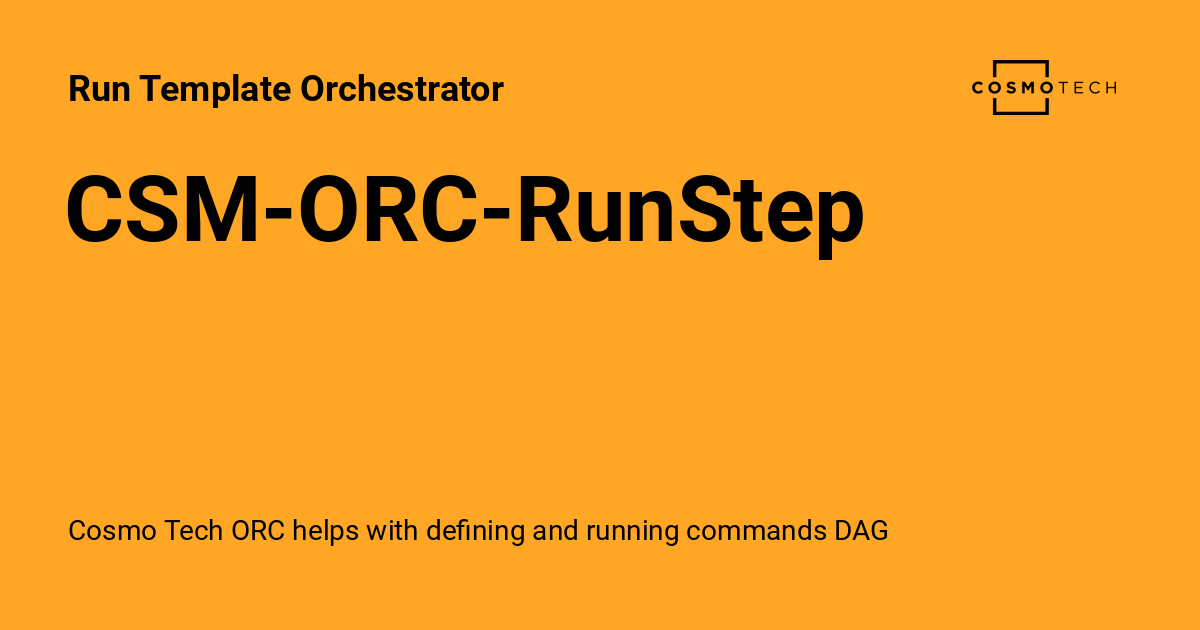
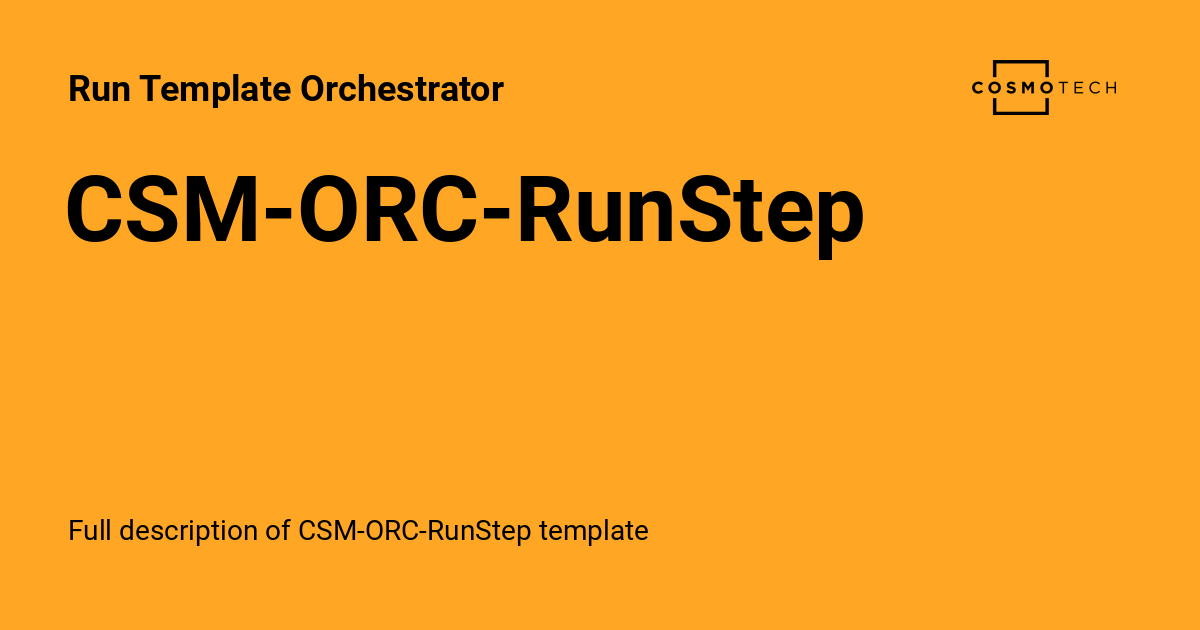
Deployed 0cb3af8 to 1.2.0-dev with MkDocs 1.5.3 and mike 2.0.0

Changed region(s): [[0.0617, 0.8143, 0.74, 0.8746]]

diff --git a/1.2.0-dev/command_templates/csm-orc/CSM-ORC-RunStep/index.html b/1.2.0-dev/command_templates/csm-orc/CSM-ORC-RunStep/index.html
@@ -6,7 +6,7 @@
       <meta charset="utf-8">
       <meta name="viewport" content="width=device-width,initial-scale=1">
       
-        <meta name="description" content="Cosmo Tech ORC helps with defining and running commands DAG">
+        <meta name="description" content="Full description of CSM-ORC-RunStep template">
       
       
       
@@ -67,7 +67,7 @@
       
         <meta  property="og:title"  content="CSM-ORC-RunStep - Run Template Orchestrator" >
       
-        <meta  property="og:description"  content="Cosmo Tech ORC helps with defining and running commands DAG" >
+        <meta  property="og:description"  content="Full description of CSM-ORC-RunStep template" >
       
         <meta  property="og:image"  content="https://cosmo-tech.github.io/run-orchestrator/1.2.0-dev/assets/images/social/command_templates/csm-orc/CSM-ORC-RunStep.png" >
       
@@ -83,7 +83,7 @@
       
         <meta  name="twitter:title"  content="CSM-ORC-RunStep - Run Template Orchestrator" >
       
-        <meta  name="twitter:description"  content="Cosmo Tech ORC helps with defining and running commands DAG" >
+        <meta  name="twitter:description"  content="Full description of CSM-ORC-RunStep template" >
       
         <meta  name="twitter:image"  content="https://cosmo-tech.github.io/run-orchestrator/1.2.0-dev/assets/images/social/command_templates/csm-orc/CSM-ORC-RunStep.png" >
       
